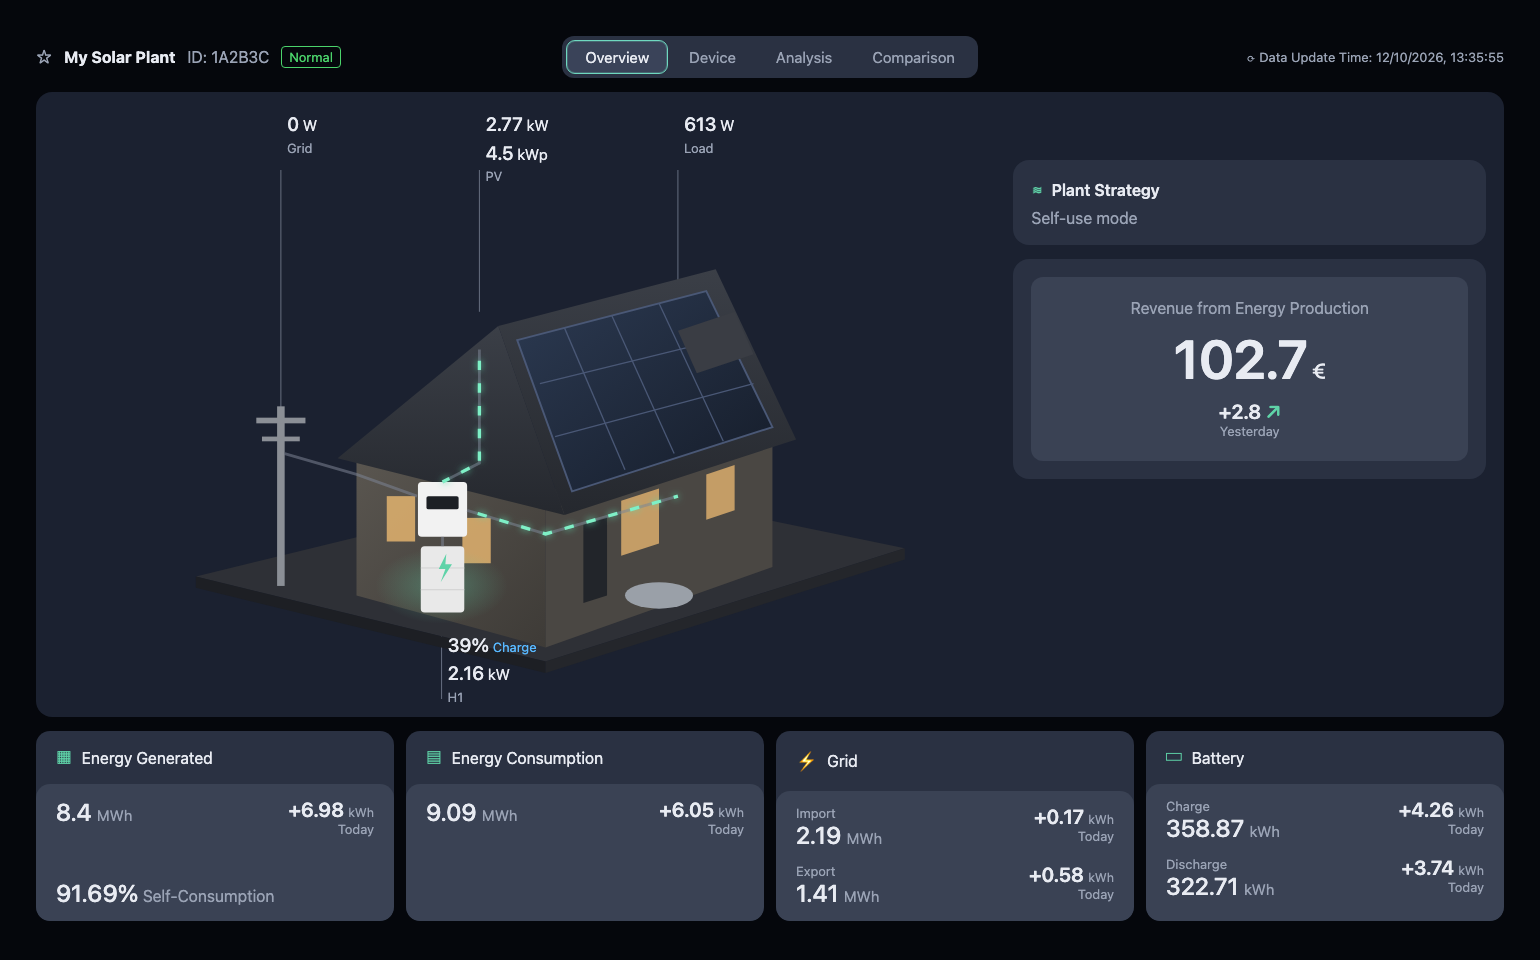
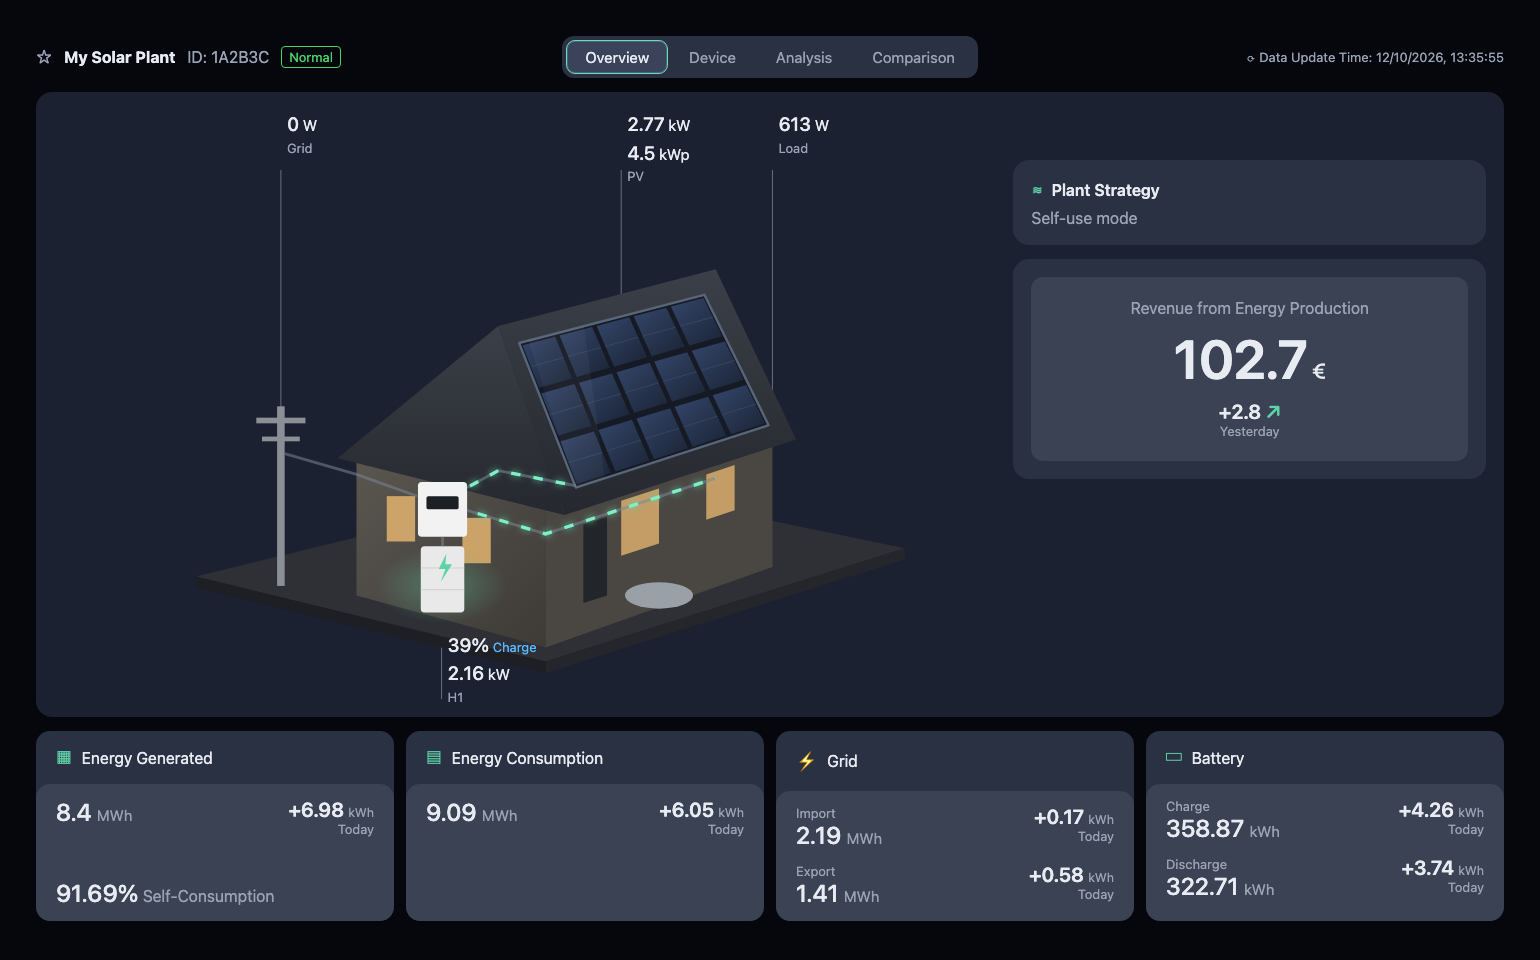
fix: draw the solar panels as modules that follow the roof
The panel grid lines did not follow the array edges and the chimney covered
the top corner, so the array looked cut. Lay out each module from the array
corners, drop the chimney, start the PV flow at the panels and point the PV
and Load labels at the panels and the house.

diff --git a/dist/saj-elekeeper-card.js b/dist/saj-elekeeper-card.js
@@ -15,7 +15,7 @@
  *   weather: weather.home      # optional, temperature shown on the overview
  */
 
-const CARD_VERSION = "1.1.0";
+const CARD_VERSION = "1.1.1";
 const DOMAIN = "saj_esolar_cloud";
 
 // Sensor keys that identify each kind of device in the entity registry
@@ -462,8 +462,8 @@ class SajElekeeperCard extends HTMLElement {
           ${weatherTemp !== undefined ? `<div class="weather">☁ ${fmtNumber(weatherTemp, 0)}°C</div>` : ""}
           ${flowDiagram({ grid, pv, load, bat, dir })}
           <div class="flow-label" style="left:24%"><b>${gv}</b> ${gu}<div class="lbl">Grid</div></div>
-          <div class="flow-label" style="left:45%"><b>${pvv}</b> ${pvu}${kwp ? `<div><b>${esc(kwp)}</b> kWp</div>` : ""}<div class="lbl">PV</div></div>
-          <div class="flow-label" style="left:66%"><b>${lv}</b> ${lu}<div class="lbl">Load</div></div>
+          <div class="flow-label" style="left:60%"><b>${pvv}</b> ${pvu}${kwp ? `<div><b>${esc(kwp)}</b> kWp</div>` : ""}<div class="lbl">PV</div></div>
+          <div class="flow-label" style="left:76%"><b>${lv}</b> ${lu}<div class="lbl">Load</div></div>
           <div class="flow-label bottom" style="left:41%"><b>${fmtNumber(soc, 0)}%</b> <span class="state ${batState.toLowerCase()}">${batState}</span>
             <div><b>${bv}</b> ${bu}</div><div class="lbl">${esc(this._inverterModelShort())}</div></div>
         </div>
@@ -975,13 +975,13 @@ function flowDiagram({ grid, pv, load, bat, dir }) {
     <defs>
       <linearGradient id="roof" x1="0" y1="0" x2="0" y2="1"><stop offset="0" stop-color="#3b3f47"/><stop offset="1" stop-color="#25282e"/></linearGradient>
       <linearGradient id="wall" x1="0" y1="0" x2="1" y2="1"><stop offset="0" stop-color="#5a5650"/><stop offset="1" stop-color="#3e3b37"/></linearGradient>
-      <linearGradient id="panel" x1="0" y1="0" x2="1" y2="1"><stop offset="0" stop-color="#2c3a52"/><stop offset="1" stop-color="#151c29"/></linearGradient>
+      <linearGradient id="panel" x1="0" y1="0" x2="1" y2="1"><stop offset="0" stop-color="#34466a"/><stop offset="1" stop-color="#1b2436"/></linearGradient>
       <radialGradient id="glow" cx="0.5" cy="0.5" r="0.5"><stop offset="0" stop-color="#5fd3a8" stop-opacity="0.35"/><stop offset="1" stop-color="#5fd3a8" stop-opacity="0"/></radialGradient>
     </defs>
     <!-- leader lines to the labels -->
     <line x1="240" y1="0" x2="240" y2="330" class="leader"/>
-    <line x1="450" y1="0" x2="450" y2="150" class="leader"/>
-    <line x1="660" y1="0" x2="660" y2="300" class="leader"/>
+    <line x1="600" y1="0" x2="600" y2="150" class="leader"/>
+    <line x1="760" y1="0" x2="760" y2="282" class="leader"/>
     <line x1="410" y1="430" x2="410" y2="560" class="leader"/>
     <!-- ground -->
     <polygon points="150,430 520,520 900,400 560,330" fill="#2e3036"/>
@@ -996,12 +996,7 @@ function flowDiagram({ grid, pv, load, bat, dir }) {
     <polygon points="520,360 760,280 760,420 520,505" fill="#4a4743"/>
     <polygon points="300,305 470,165 540,365" fill="url(#roof)"/>
     <polygon points="470,165 700,105 785,285 540,365" fill="url(#roof)"/>
-    <polygon points="490,180 690,128 760,272 548,340" fill="url(#panel)" stroke="#4a5876" stroke-width="2"/>
-    <g stroke="#4a5876" stroke-width="1.4">
-      <line x1="540" y1="167" x2="604" y2="317"/><line x1="590" y1="154" x2="656" y2="300"/><line x1="640" y1="141" x2="708" y2="287"/>
-      <line x1="514" y1="226" x2="718" y2="176"/><line x1="530" y1="282" x2="740" y2="226"/>
-    </g>
-    <polygon points="660,170 720,150 740,195 680,215" fill="#3a3d44"/>
+    ${solarArray()}
     <!-- windows -->
     <rect x="352" y="345" width="30" height="48" fill="#e2b36f" opacity="0.85"/>
     <rect x="432" y="368" width="30" height="48" fill="#e2b36f" opacity="0.85"/>
@@ -1017,12 +1012,44 @@ function flowDiagram({ grid, pv, load, bat, dir }) {
     <path d="M415,406 l-8,16 h7 l-5,14 l12,-19 h-7 z" fill="#5fd3a8"/>
     <!-- flows -->
     ${flow("f-grid", "M244,300 L320,322 L384,345", active(grid), !importing)}
-    ${flow("f-pv", "M450,190 L450,310 L411,330", active(pv), false)}
+    ${flow("f-pv", "M552,334 L470,318 L437,336", active(pv), false)}
     ${flow("f-bat", "M411,388 L411,398", active(bat), !charging)}
-    ${flow("f-load", "M437,360 L520,385 L660,345", active(load), false)}
+    ${flow("f-load", "M437,360 L520,385 L700,326", active(load), false)}
     <!-- car -->
     <ellipse cx="640" cy="450" rx="36" ry="14" fill="#9aa0a8"/>
   </svg>`;
+}
+
+/**
+ * Solar modules laid out on the roof plane. Each module is interpolated from
+ * the corners of the array, so the grid always follows the roof perspective.
+ */
+function solarArray() {
+  const corners = [[492, 183], [688, 132], [756, 270], [552, 336]]; // top-left, top-right, bottom-right, bottom-left
+  const lerp = (p, q, t) => [p[0] + (q[0] - p[0]) * t, p[1] + (q[1] - p[1]) * t];
+  const at = (u, v) => lerp(lerp(corners[0], corners[1], u), lerp(corners[3], corners[2], u), v);
+  const pt = (p) => `${p[0].toFixed(1)},${p[1].toFixed(1)}`;
+  const cols = 5;
+  const rows = 3;
+  const gu = 0.012;
+  const gv = 0.02;
+  let svg = `<polygon points="${corners.map(pt).join(" ")}" fill="#151a24" stroke="#596579" stroke-width="2.5" stroke-linejoin="round"/>`;
+  for (let r = 0; r < rows; r++) {
+    for (let c = 0; c < cols; c++) {
+      const u0 = c / cols + gu;
+      const u1 = (c + 1) / cols - gu;
+      const v0 = r / rows + gv;
+      const v1 = (r + 1) / rows - gv;
+      const quad = [at(u0, v0), at(u1, v0), at(u1, v1), at(u0, v1)];
+      svg += `<polygon points="${quad.map(pt).join(" ")}" fill="url(#panel)"/>`;
+      // one cell line across the middle of each module
+      svg += `<line x1="${at(u0, (v0 + v1) / 2)[0].toFixed(1)}" y1="${at(u0, (v0 + v1) / 2)[1].toFixed(1)}" x2="${at(u1, (v0 + v1) / 2)[0].toFixed(1)}" y2="${at(u1, (v0 + v1) / 2)[1].toFixed(1)}" stroke="#3b4a66" stroke-width="0.8"/>`;
+    }
+  }
+  // soft reflection across the array
+  const shine = [at(0.05, 0), at(0.35, 0), at(0.15, 1), at(0, 1)];
+  svg += `<polygon points="${shine.map(pt).join(" ")}" fill="#ffffff" opacity="0.04"/>`;
+  return svg;
 }
 
 const INVERTER_ART = `

diff --git a/CHANGELOG.md b/CHANGELOG.md
@@ -1,5 +1,13 @@
 # Changelog
 
+## 1.1.1
+
+- Solar panels on the overview house drawn as individual modules that follow
+  the roof perspective (the grid lines no longer cross the panel edges, and
+  the chimney no longer covers the array)
+- PV flow line starts at the panels; PV and Load labels point at the panels
+  and the house
+
 ## 1.1.0
 
 First release as a standalone HACS dashboard card.

diff --git a/README.md b/README.md
@@ -110,7 +110,7 @@ straight to [Adding the card](#adding-the-card).
 
 3. Register it as a resource: **Settings → Dashboards → ⋮ → Resources →
    Add resource**.
-   - URL: `/local/saj-elekeeper-card.js?v=1.1.0`
+   - URL: `/local/saj-elekeeper-card.js?v=1.1.1`
    - Resource type: **JavaScript module**
 
    If you do not see *Resources*, turn on **Advanced mode** in your user
